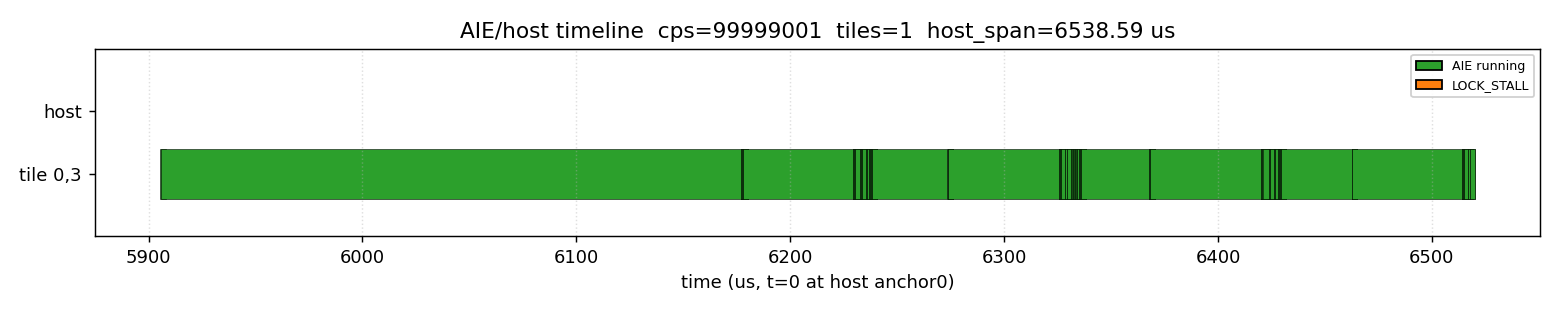
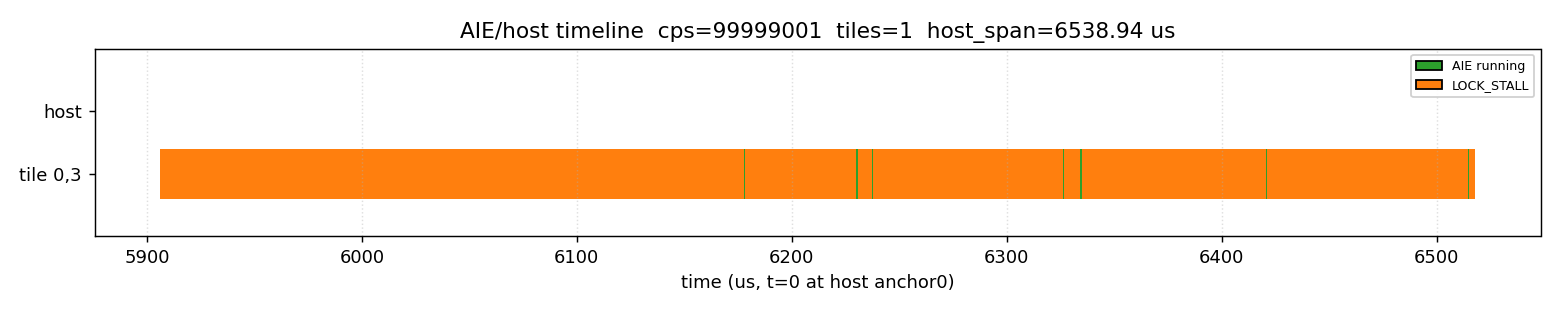
fix active(green color time line) not shown issue

diff --git a/src/tool/debug/timeline_gui.py b/src/tool/debug/timeline_gui.py
@@ -39,6 +39,9 @@ EVENT_COLORS = {
     "STREAM_STALL": "#d62728",  # red
     "MEMORY_STALL": "#9467bd",  # purple
 }
+# Stall slots take colour priority over ACTIVE in a combined label: a core is
+# reported ACTIVE even while blocked, so the stall should be what you see.
+STALL_ORDER = ("LOCK_STALL", "STREAM_STALL", "MEMORY_STALL")
 OTHER_COLOR = "#7f7f7f"         # grey (multi-event or unknown)
 HOST_LINE_COLOR = "#1f77b4"     # blue guide lines / host-running bars
 HOST_RUNNING_COLOR = "#1f77b4"  # blue: host busy (setup / DMA / verify)
@@ -49,10 +52,65 @@ HOST_WAIT_COLOR = "#c7c7c7"     # grey hatched: host idle-waiting on the AIE
 HOST_WAIT_PHASES = {"run"}
 
 
+def rasterize_lane(events, x_lo, x_hi, nbins):
+    """Per-pixel dominant-state colouring for one tile lane.
+
+    Splits [x_lo, x_hi] into `nbins` equal bins (one per rendered pixel column)
+    and, for each bin, sums how long each colour occupies it; the colour with
+    the most time wins. This makes a short burst survive as its bin's dominant
+    colour instead of being overpainted by an adjacent bar (the failure mode of
+    per-event rectangles). Empty bins produce no segment. Adjacent bins with the
+    same colour are merged into one span.
+
+    Returns [(seg_start_us, seg_end_us, color_hex), ...] left-to-right.
+    """
+    if nbins < 1 or x_hi <= x_lo or not events:
+        return []
+    bw = (x_hi - x_lo) / nbins
+    # Per-bin colour->overlap-duration accumulator.
+    acc = [dict() for _ in range(nbins)]
+    for ev in events:
+        s = max(ev["start_us"], x_lo)
+        e = min(ev["end_us"], x_hi)
+        if e <= s:
+            continue
+        col = event_color(ev["event"])
+        b0 = int((s - x_lo) / bw)
+        b1 = int((e - x_lo) / bw)
+        if b1 >= nbins:
+            b1 = nbins - 1
+        for b in range(b0, b1 + 1):
+            bin_lo = x_lo + b * bw
+            bin_hi = bin_lo + bw
+            overlap = min(e, bin_hi) - max(s, bin_lo)
+            if overlap > 0.0:
+                acc[b][col] = acc[b].get(col, 0.0) + overlap
+
+    # Dominant colour per bin (None when empty), then merge adjacent runs.
+    segs = []
+    for b in range(nbins):
+        if not acc[b]:
+            continue
+        col = max(acc[b].items(), key=lambda kv: kv[1])[0]
+        bin_lo = x_lo + b * bw
+        bin_hi = bin_lo + bw
+        if segs and segs[-1][2] == col and abs(segs[-1][1] - bin_lo) < bw * 1e-6:
+            segs[-1] = (segs[-1][0], bin_hi, col)
+        else:
+            segs.append((bin_lo, bin_hi, col))
+    return segs
+
+
 def event_color(event):
-    """Colour for an event label. A '|'-joined multi-event uses the first
-    recognised token's colour, else grey."""
-    for tok in str(event).split("|"):
+    """Colour for an event label. A '|'-joined multi-event prefers a stall
+    token over ACTIVE, so an ACTIVE|LOCK_STALL span shows the stall colour
+    (a core can be ACTIVE while blocked on a lock/stream/memory). Falls back
+    to the first recognised token, else grey."""
+    toks = str(event).split("|")
+    for tok in toks:
+        if tok in STALL_ORDER:
+            return EVENT_COLORS[tok]
+    for tok in toks:
         if tok in EVENT_COLORS:
             return EVENT_COLORS[tok]
     return OTHER_COLOR
@@ -123,12 +181,6 @@ def host_intervals(hl):
 # --------------------------------------------------------------------------
 # Rendering.
 # --------------------------------------------------------------------------
-def _bar_draw_span(x0, w, min_w):
-    """(dx, dw) for a bar of true width w at x0, floored to min_w by growing
-    RIGHTWARD only, so the drawn left edge == true start (temporal order safe)."""
-    return x0, max(w, min_w)
-
-
 def _pick_backend(save, want_window):
     """Choose a matplotlib backend BEFORE importing pyplot. Returns
     (show_window, save_path_or_None)."""
@@ -140,9 +192,12 @@ def _pick_backend(save, want_window):
     return True, None
 
 
-def _draw(ax, model):
+def _draw(ax, model, nbins=2000):
     """Draw all lanes onto ax as HORIZONTAL timelines on one us axis. Returns a
     hover index: a list of (x0, x1, y0, y1, event_dict, lane_name) tuples.
+
+    `nbins` is the number of rasterisation columns for tile lanes (set by
+    render() to the figure's pixel width).
 
     Row 0 is the host lane: one bar per gap between consecutive phase markers,
     BLUE where the host is running and GREY HATCHED where it is idle-waiting on
@@ -157,13 +212,12 @@ def _draw(ax, model):
     row_h = 0.8
     hover = []  # (x0, x1, y0, y1, event, lane_name)
 
-    # A minimum *visual* bar width so a very short event (e.g. a 0.4 us ACTIVE
-    # burst on a 20 ms axis) is still visible as a hairline. The true span stays
-    # in the hover/detail; only the drawn rectangle is widened.
+    # Full x-range across every lane; tile lanes are rasterised into `nbins`
+    # columns over this range so per-pixel dominant colouring is stable.
     all_x = [e["start_us"] for l in model["lanes"] for e in l["events"]] + \
             [e["end_us"] for l in model["lanes"] for e in l["events"]]
-    span = (max(all_x) - min(all_x)) if all_x else 0.0
-    min_draw_w = span * 0.004  # ~0.4% of the axis
+    x_lo = min(all_x) if all_x else 0.0
+    x_hi = max(all_x) if all_x else 1.0
 
     # Host lane (row 0): running vs idle-waiting bars.
     if hl is not None:
@@ -183,22 +237,21 @@ def _draw(ax, model):
                   "end_us": bar["end_us"], "detail": bar["detail"]}
             hover.append((x0, x0 + w, y0, y0 + row_h, ev, "host"))
 
-    # Tile lanes: one row each, bars coloured by event type. A bar narrower than
-    # min_draw_w is widened by growing RIGHTWARD from its true start (never
-    # centred), so the drawn left edge always equals the real start time and a
-    # short bar can never appear before the host's run marker; the hover box
-    # still reports the true start/end.
+    # Tile lanes: one row each, drawn with per-pixel dominant-state colouring.
+    # Each bin (~one screen column) is filled with the colour that occupies most
+    # of its time, so a short burst survives as its bin's dominant colour instead
+    # of being overpainted by an adjacent bar. Hover still reports true per-event
+    # spans (unaffected by rasterisation).
     for i, lane in enumerate(tiles):
         row = tile_row0 + i
         y0 = row - row_h / 2.0
+        for s_us, e_us, color in rasterize_lane(lane["events"], x_lo, x_hi, nbins):
+            ax.broken_barh([(s_us, e_us - s_us)], (y0, row_h),
+                           facecolors=color, edgecolors="none")
         for ev in lane["events"]:
             x0 = ev["start_us"]
-            w = max(ev["end_us"] - ev["start_us"], 0.0)
-            dx, dw = _bar_draw_span(x0, w, min_draw_w)
-            ax.broken_barh([(dx, dw)], (y0, row_h),
-                           facecolors=event_color(ev["event"]),
-                           edgecolors="black", linewidth=0.3)
-            hover.append((x0, x0 + w, y0, y0 + row_h, ev, lane["name"]))
+            x1 = x0 + max(ev["end_us"] - ev["start_us"], 0.0)
+            hover.append((x0, x1, y0, y0 + row_h, ev, lane["name"]))
 
     # Light dashed vertical guides at each host phase boundary, across all rows.
     if hl is not None and n_rows > 0:
@@ -301,7 +354,9 @@ def render(model, save=None, want_window=True):
     n = len(tile_lanes(model)) + (1 if host_lane(model) is not None else 0)
     n = max(n, 1)
     fig, ax = plt.subplots(figsize=(12, 1.2 + 0.6 * n))
-    hover = _draw(ax, model)
+    # One rasterisation bin per horizontal pixel of the figure.
+    nbins = max(int(fig.get_figwidth() * fig.dpi), 100)
+    hover = _draw(ax, model, nbins)
     _add_legend(ax, model)
     ax.grid(True, axis="x", linestyle=":", alpha=0.4)
     fig.tight_layout()

diff --git a/src/tool/debug/tests/test_timeline_gui.py b/src/tool/debug/tests/test_timeline_gui.py
@@ -31,15 +31,68 @@ def test_event_color_known_slots():
     assert tg.event_color("MEMORY_STALL") == tg.EVENT_COLORS["MEMORY_STALL"]
 
 
-def test_event_color_multi_uses_first_known():
-    # First recognised token wins.
-    assert tg.event_color("ACTIVE|LOCK_STALL") == tg.EVENT_COLORS["ACTIVE"]
+def test_event_color_multi_prefers_stall():
+    # A stall token wins over ACTIVE (core is ACTIVE even while blocked).
+    assert tg.event_color("ACTIVE|LOCK_STALL") == tg.EVENT_COLORS["LOCK_STALL"]
+    assert tg.event_color("ACTIVE|STREAM_STALL") == tg.EVENT_COLORS["STREAM_STALL"]
+    assert tg.event_color("ACTIVE|MEMORY_STALL") == tg.EVENT_COLORS["MEMORY_STALL"]
+    # No stall token: first recognised token wins.
     assert tg.event_color("STREAM_STALL|EVENT5") == tg.EVENT_COLORS["STREAM_STALL"]
+    assert tg.event_color("ACTIVE|EVENT5") == tg.EVENT_COLORS["ACTIVE"]
 
 
 def test_event_color_unknown_is_other():
     assert tg.event_color("EVENT5") == tg.OTHER_COLOR
     assert tg.event_color("EVENT6|EVENT7") == tg.OTHER_COLOR
+
+
+def test_rasterize_dominant_active_over_minority_stall():
+    # One bin covering [0,20]: 19.95us ACTIVE vs 0.05us LOCK_STALL -> green.
+    events = [
+        {"start_us": 0.0, "end_us": 10.0, "event": "ACTIVE"},
+        {"start_us": 10.0, "end_us": 10.05, "event": "LOCK_STALL"},
+        {"start_us": 10.05, "end_us": 20.0, "event": "ACTIVE"},
+    ]
+    assert tg.rasterize_lane(events, 0.0, 20.0, 1) == \
+        [(0.0, 20.0, tg.EVENT_COLORS["ACTIVE"])]
+
+
+def test_rasterize_dominant_stall():
+    # A stall-dominated bin colours orange (event_color prefers the stall).
+    events = [{"start_us": 0.0, "end_us": 20.0, "event": "ACTIVE|LOCK_STALL"}]
+    assert tg.rasterize_lane(events, 0.0, 20.0, 1) == \
+        [(0.0, 20.0, tg.EVENT_COLORS["LOCK_STALL"])]
+
+
+def test_rasterize_merges_adjacent_and_splits_on_color():
+    # 4 bins over [0,20]: first half ACTIVE, second half LOCK_STALL.
+    events = [
+        {"start_us": 0.0, "end_us": 10.0, "event": "ACTIVE"},
+        {"start_us": 10.0, "end_us": 20.0, "event": "LOCK_STALL"},
+    ]
+    assert tg.rasterize_lane(events, 0.0, 20.0, 4) == [
+        (0.0, 10.0, tg.EVENT_COLORS["ACTIVE"]),
+        (10.0, 20.0, tg.EVENT_COLORS["LOCK_STALL"]),
+    ]
+
+
+def test_rasterize_skips_empty_bins():
+    # bins [0,5] and [5,10] have no events -> no segment there.
+    events = [{"start_us": 12.0, "end_us": 18.0, "event": "ACTIVE"}]
+    assert tg.rasterize_lane(events, 0.0, 20.0, 4) == \
+        [(10.0, 20.0, tg.EVENT_COLORS["ACTIVE"])]
+
+
+def test_rasterize_short_active_burst_visible_when_dominant():
+    # The real bug: a sub-pixel ACTIVE run interrupted by a 1-cycle stall.
+    # Per-pixel dominance keeps the bin green instead of losing it to overpaint.
+    events = [
+        {"start_us": 0.0, "end_us": 0.05, "event": "ACTIVE"},
+        {"start_us": 0.05, "end_us": 0.051, "event": "ACTIVE|LOCK_STALL"},
+        {"start_us": 0.051, "end_us": 0.10, "event": "ACTIVE"},
+    ]
+    assert tg.rasterize_lane(events, 0.0, 0.10, 1) == \
+        [(0.0, 0.10, tg.EVENT_COLORS["ACTIVE"])]
 
 
 def test_lane_helpers_split_host_and_tiles():
@@ -108,14 +161,6 @@ def test_host_intervals_empty_without_host():
     model["lanes"] = tg.tile_lanes(model)
     assert tg.host_lane(model) is None
     assert tg.host_intervals(None) == []
-
-
-def test_bar_draw_span_left_anchored():
-    # A sub-pixel bar is widened to min_w by growing RIGHTWARD only: the drawn
-    # left edge stays at the true start, so it can never appear before `run`.
-    assert tg._bar_draw_span(2266.69, 0.37, 77.1) == (2266.69, 77.1)
-    # An already-wide bar is untouched.
-    assert tg._bar_draw_span(100.0, 50.0, 10.0) == (100.0, 50.0)
 
 
 def test_self_test_entry_point():
